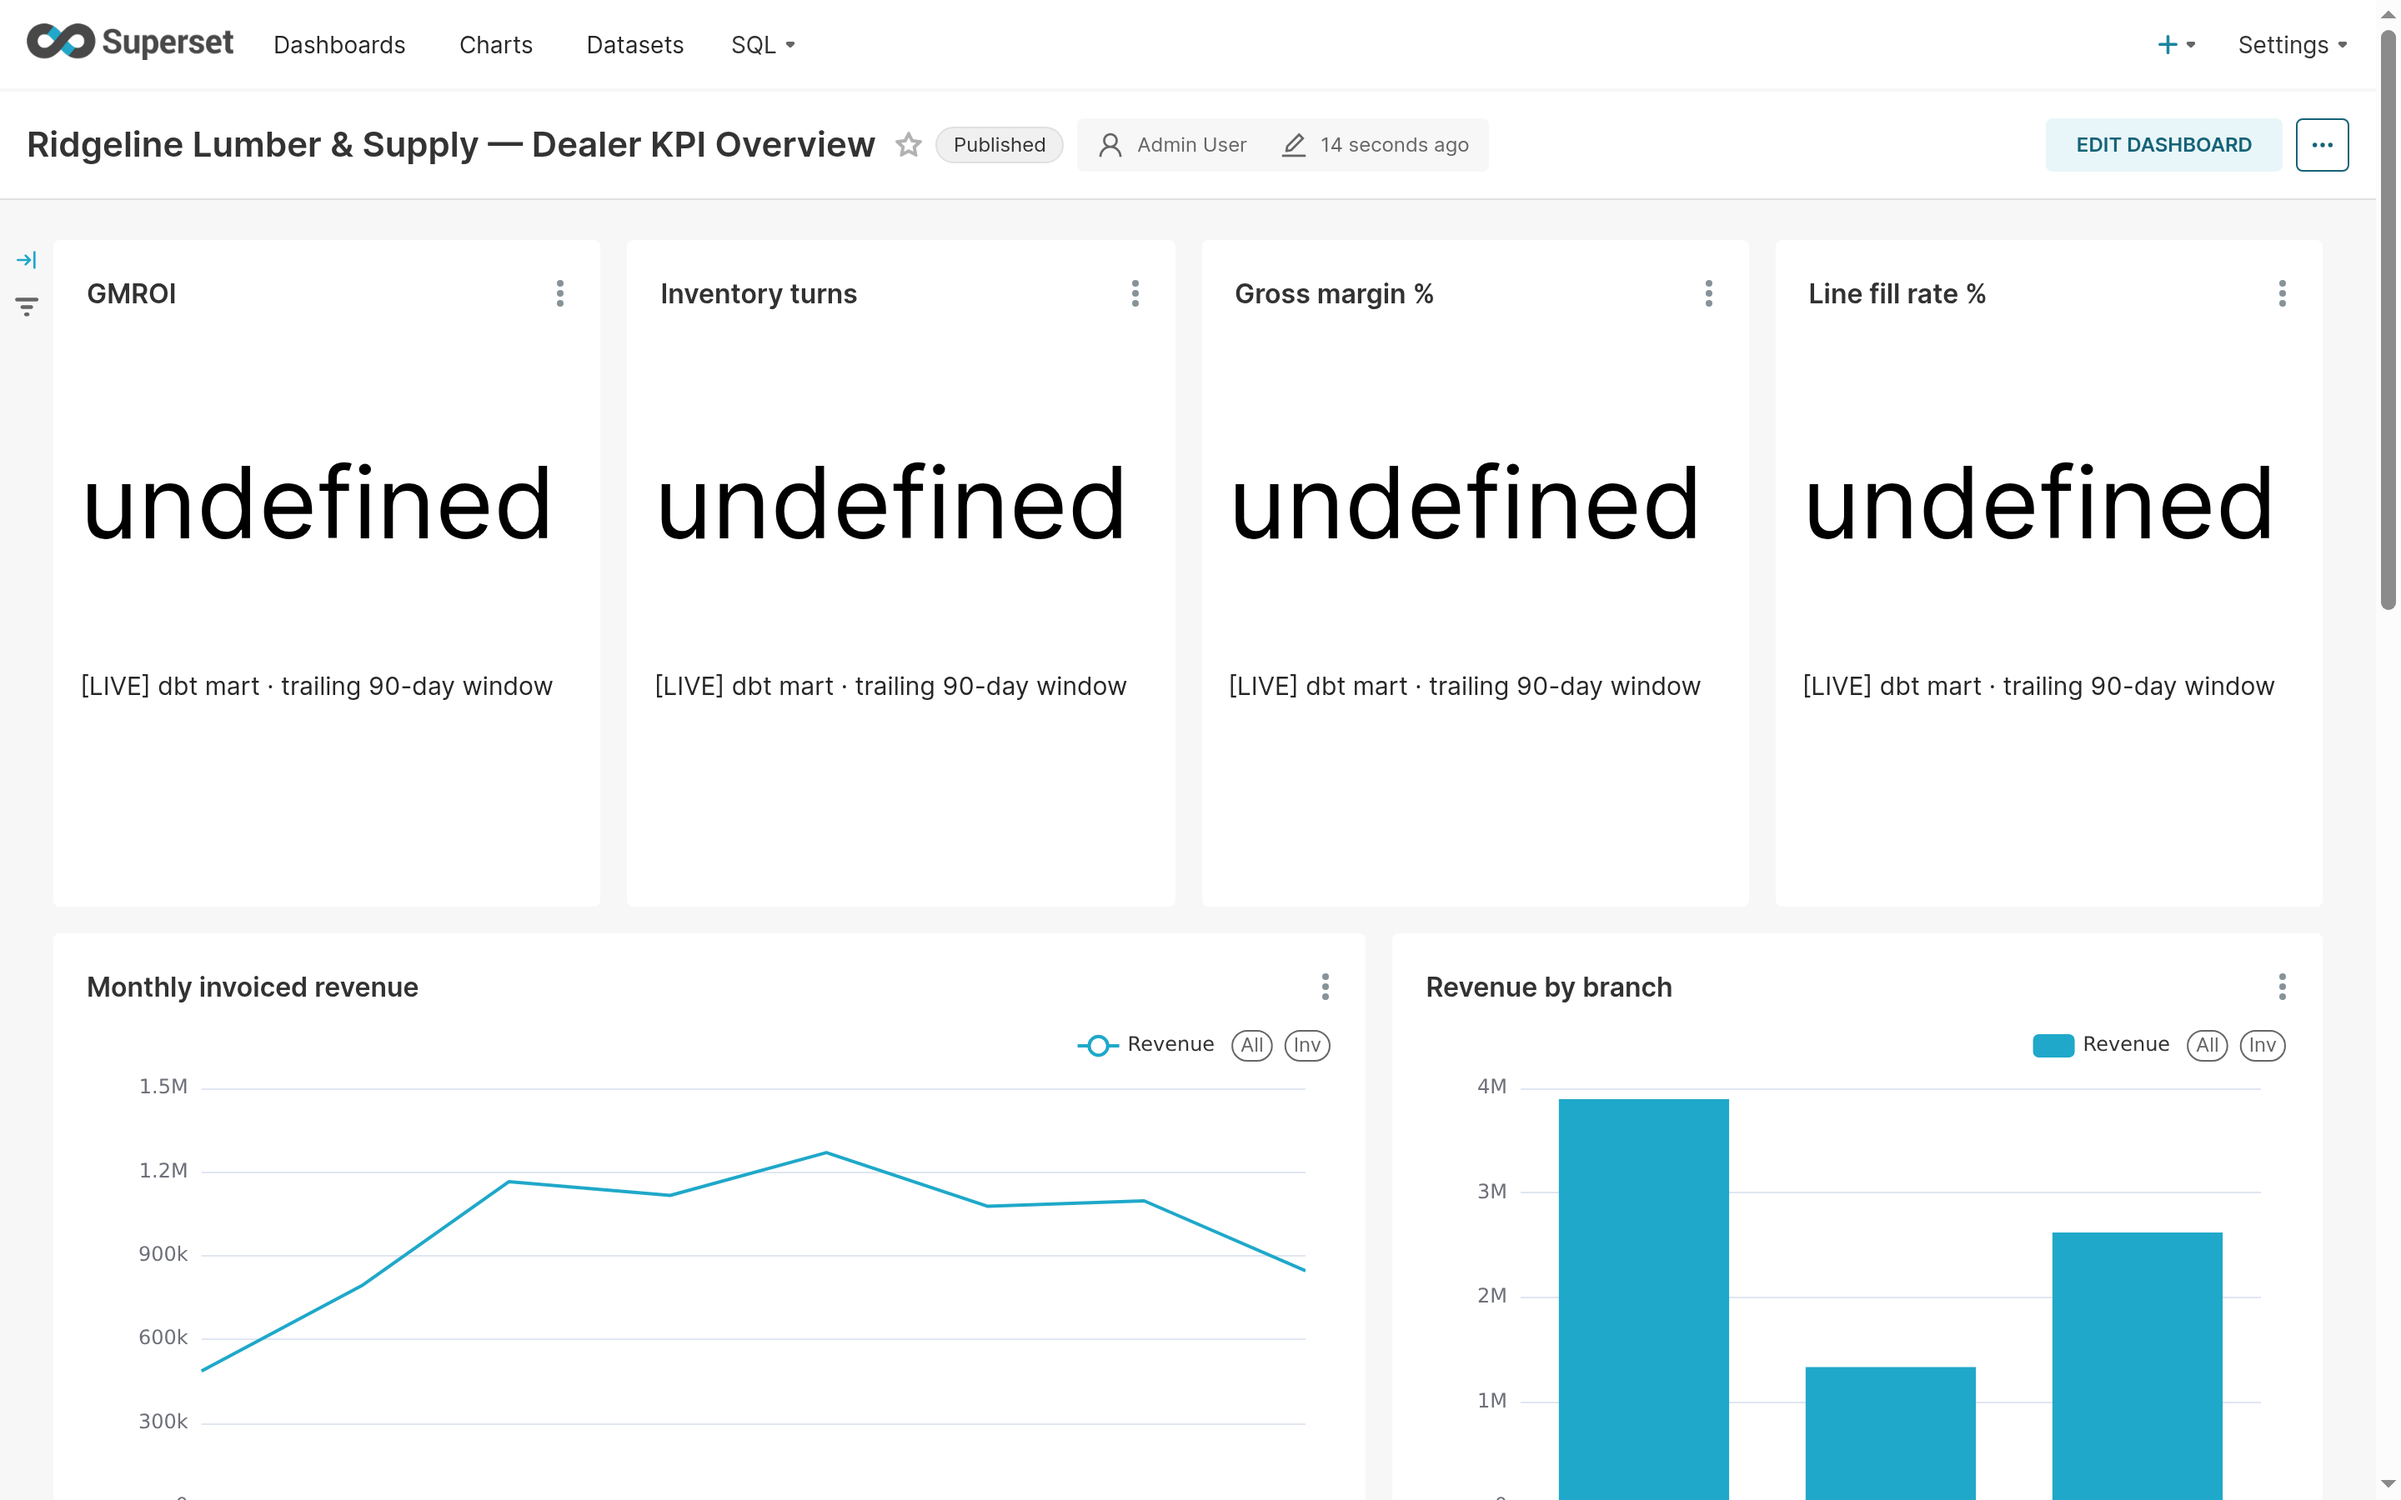
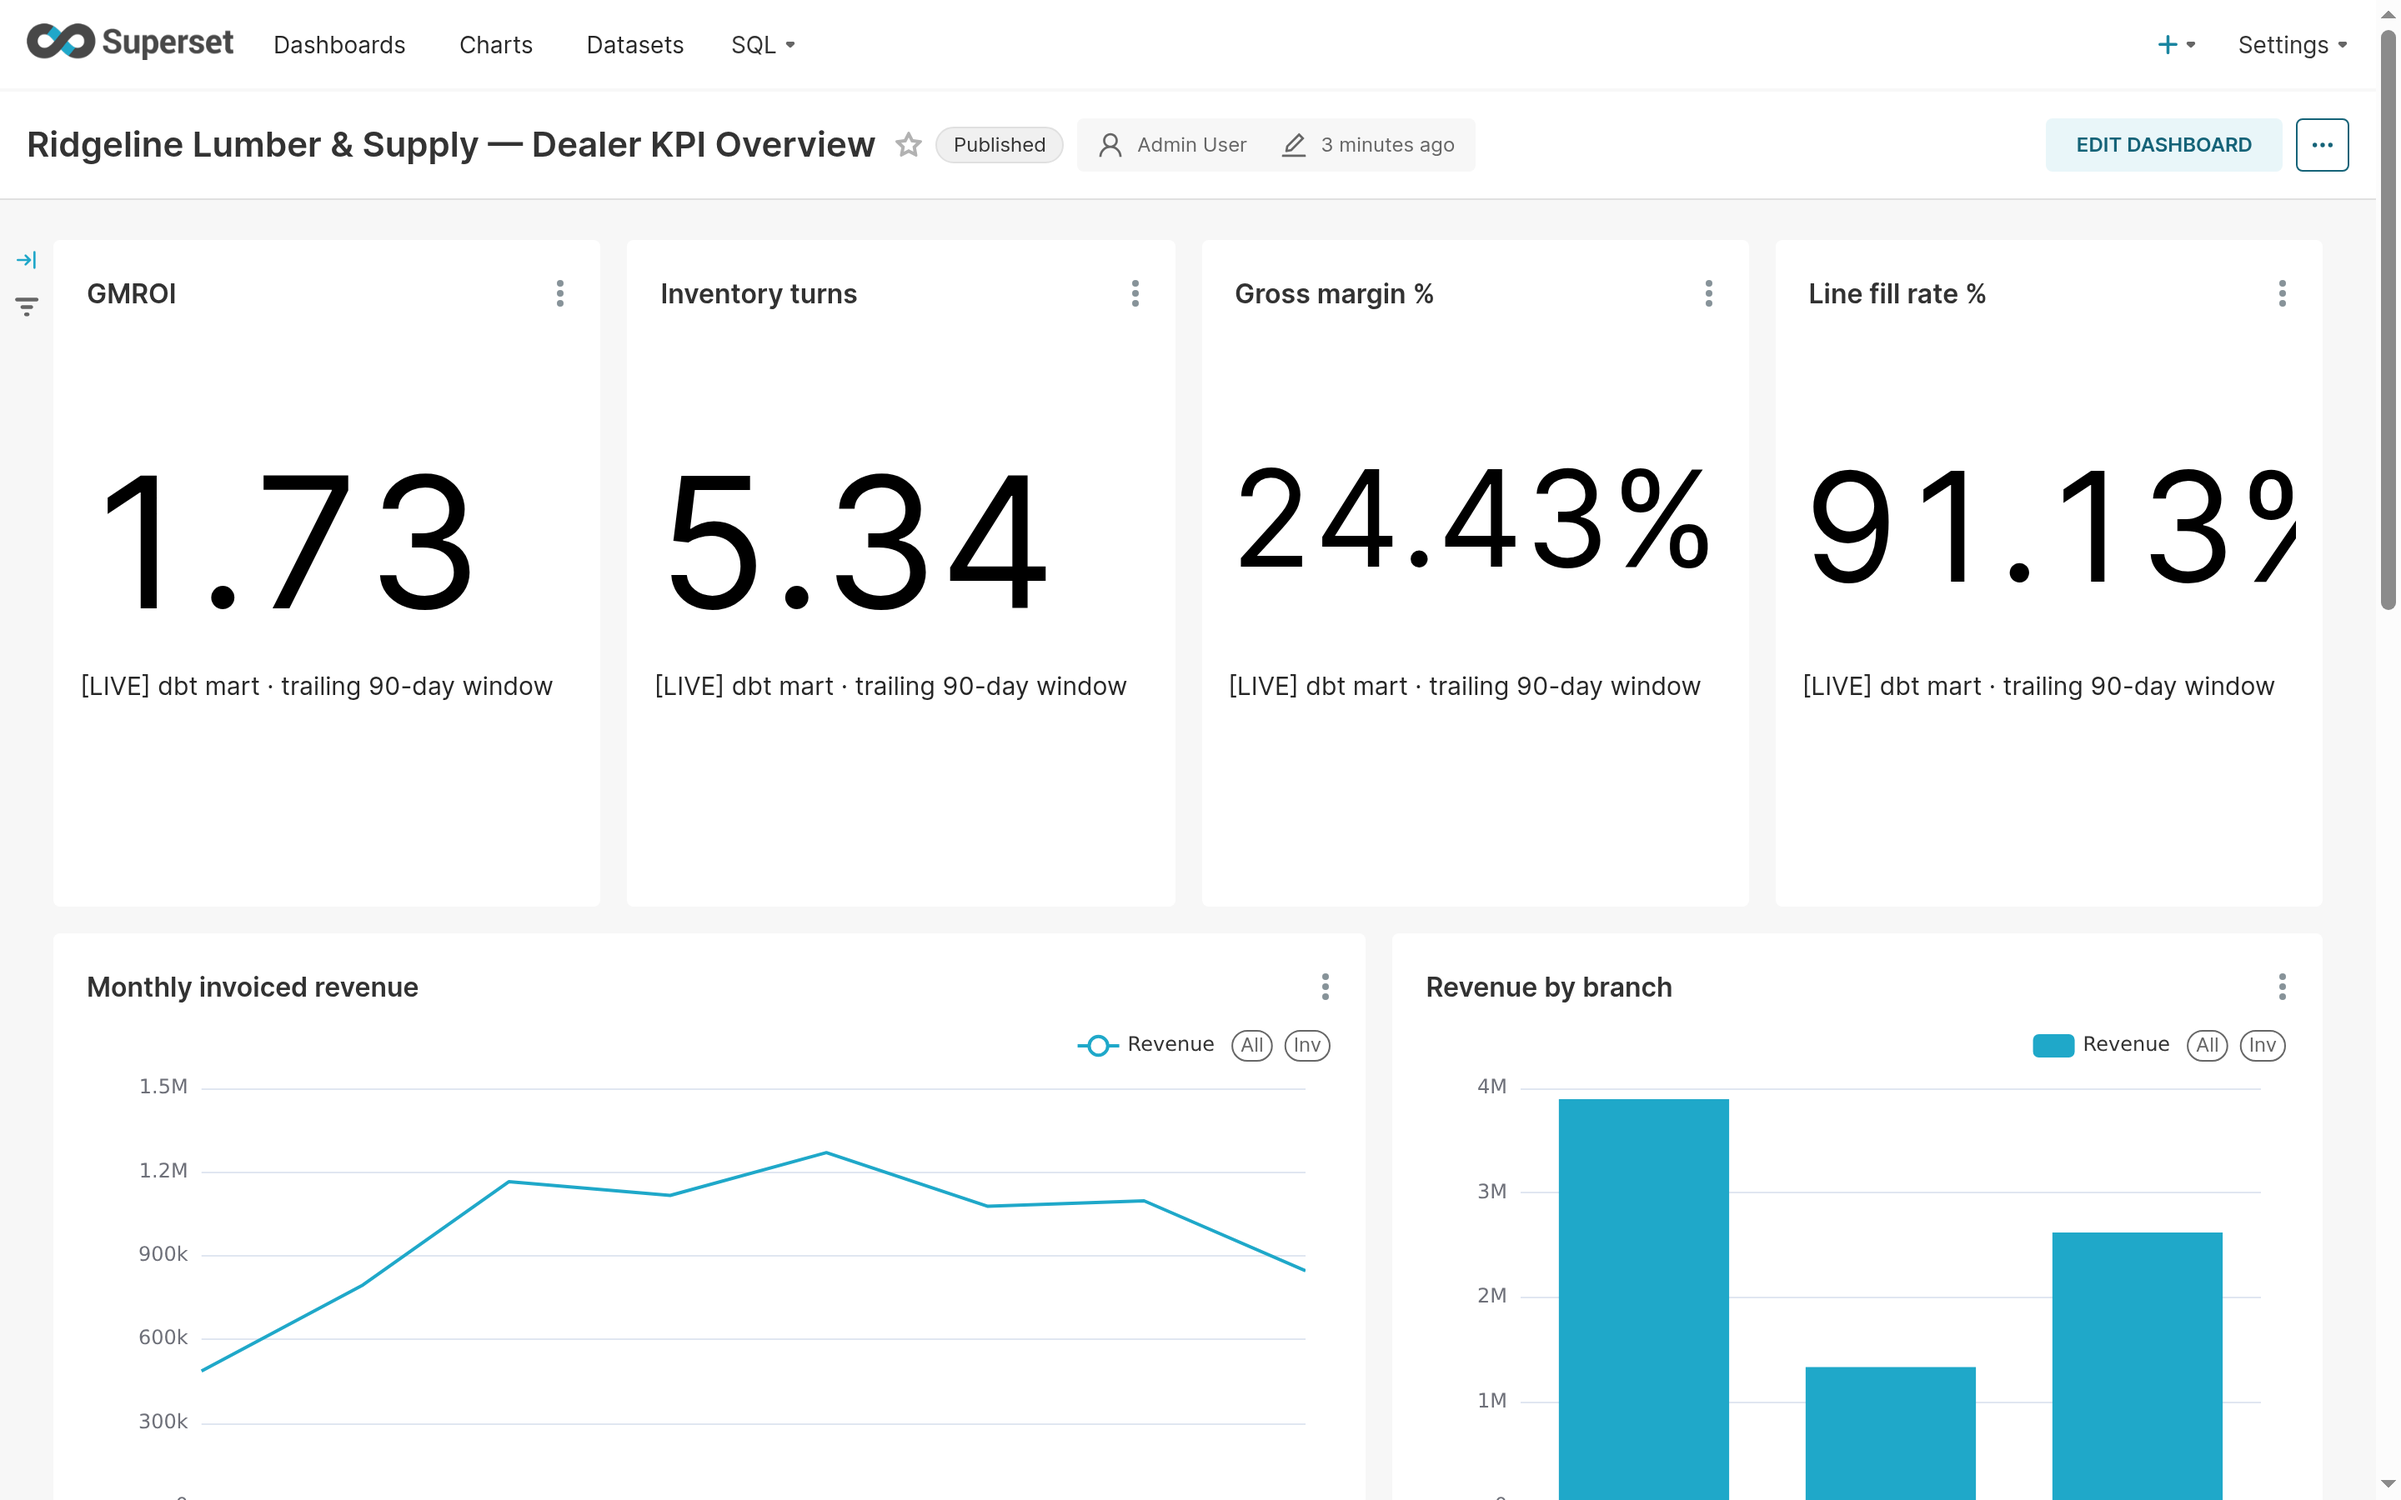
fix(superset): render real values in headline KPI tiles and fail closed on value-less big numbers (#20)
Root cause: the four big_number_total tiles had their metric saved only
under the plural 'metrics' form key. The SPA's query builder reads
'metrics' (so every tile query succeeded with correctly labeled numeric
rows) but the viz renders from the SINGULAR 'metric' key — absent, the
tile displayed the literal string 'undefined'. This affected every
committed dashboard screenshot, pre-dating PR #19.

- tile_params now writes both form keys ('metric' and 'metrics') for the
  same adhoc metric; verified live: GMROI 1.73, turns 5.34, margin 24.43%,
  line fill 91.13%
- percentage tiles switch '.1f' -> '.2%' so fraction-stored mart columns
  (0.2443, 0.9113) display as 24.43% / 91.13%
- new assert_big_number_values preflight fails closed: reads each
  big-number chart's SAVED params from the API, requires the singular
  'metric' key and a finite numeric value under the metric label from
  /api/v1/chart/data, and refuses to provision (before the dashboard is
  rewritten) otherwise
- both screenshots regenerated from the live hardened stack at the same
  filenames and 2880x1800; RapidOCR: 0 'undef|untitl' hits on either
- five new fail-closed guard tests; suite 588 passed, ruff clean

🔗 [Obvious Project](https://app.obvious.ai/p/erp-control-plane-and-data-standardization-for-con-DrFbCr0X) · 🧵 [Obvious Thread](https://app.obvious.ai/p/erp-control-plane-and-data-standardization-for-con-DrFbCr0X?thread=th_pCITLgVQ)

diff --git a/analytics/superset/build_dashboard.py b/analytics/superset/build_dashboard.py
@@ -36,6 +36,7 @@ Environment overrides:
 """
 
 import json
+import math
 import os
 import sqlite3
 import sys
@@ -250,6 +251,15 @@ def tile_params(ds_id, metric, fmt, badge_marker=LIVE_KPI_MARKER):
     return {
         "datasource": f"{ds_id}__table",
         "viz_type": "big_number_total",
+        # big_number_total reads its metric from the SINGULAR form key at
+        # render time, while the SPA's query builder reads the plural one.
+        # A chart saved with only "metrics" runs a perfectly good query
+        # (correctly labeled, numeric rows) yet renders the literal string
+        # 'undefined' — the exact bug that blanked the four headline tiles
+        # in every committed screenshot. Keep both keys pointing at the
+        # same metric; assert_big_number_values refuses to provision a tile
+        # missing either side of this contract.
+        "metric": metric,
         "metrics": [metric],
         "groupby": [],
         "time_range": "No filter",
@@ -306,13 +316,13 @@ CHARTS = [
         "Gross margin %",
         "big_number_total",
         "kpi_headline",
-        tile_params(0, simple("gross_margin_pct", "AVG", "Gross margin %"), ".1f"),
+        tile_params(0, simple("gross_margin_pct", "AVG", "Gross margin %"), ".2%"),
     ),
     (
         "Line fill rate %",
         "big_number_total",
         "kpi_headline",
-        tile_params(0, simple("line_fill_rate", "AVG", "Line fill rate %"), ".1f"),
+        tile_params(0, simple("line_fill_rate", "AVG", "Line fill rate %"), ".2%"),
     ),
     (
         "Monthly invoiced revenue",
@@ -648,6 +658,67 @@ def assert_explicit_names():
         sys.exit(f"refusing to provision unnamed or placeholder-titled objects: {offenders}")
 
 
+def assert_big_number_values(ids, ds_map):
+    """Fail closed when a big-number tile would render a value-less metric.
+
+    The 'undefined' bug shape: the chart's saved params carried the metric
+    under a key the viz does not read at render time, so the query succeeded
+    (status=success, correctly labeled numeric rows) while the tile displayed
+    the literal string 'undefined'. A row-level preflight cannot catch that —
+    this guard checks the contract the viz actually depends on, reading the
+    SAVED chart params from the API (server state, not this file) and
+    requiring (a) the singular `metric` form key big_number_total reads,
+    and (b) a finite numeric value for that metric's label from the
+    chart-data endpoint.
+    """
+    failures = []
+    for name, viz, _ds_key, _params in CHARTS:
+        if viz != "big_number_total":
+            continue
+        cid = ids[name]
+        saved = json.loads(api("GET", f"/api/v1/chart/{cid}")["result"]["params"])
+        metric = saved.get("metric")
+        label = metric.get("label") if isinstance(metric, dict) else None
+        if not isinstance(label, str) or not label.strip():
+            failures.append(
+                f"chart {name!r}: saved params have no singular 'metric' — the viz renders 'undefined'"
+            )
+            continue
+        query = {
+            "metrics": [metric],
+            "groupby": [],
+            "time_range": saved.get("time_range", "No filter"),
+            "filters": [],
+            "row_limit": saved.get("row_limit", 100),
+        }
+        res = api(
+            "POST",
+            "/api/v1/chart/data",
+            json={
+                "datasource": {"id": ds_map[_ds_key], "type": "table"},
+                "queries": [query],
+                "result_format": "json",
+                "result_type": "full",
+            },
+        )
+        result = res["result"][0]
+        rows = result.get("data") or []
+        value = rows[0].get(label) if rows else None
+        numeric = (
+            isinstance(value, (int, float)) and not isinstance(value, bool) and math.isfinite(value)
+        )
+        if result.get("status") != "success" or not rows or not numeric:
+            failures.append(
+                f"chart {name!r}: metric {label!r} has no finite numeric value"
+                f" (status={result.get('status')!r}, value={value!r})"
+            )
+    if failures:
+        sys.exit(
+            "refusing to provision value-less big-number tiles (would render 'undefined')"
+            f": {'; '.join(failures)}"
+        )
+
+
 def main():
     global HEADERS, DB_ID
     assert_explicit_names()
@@ -660,6 +731,9 @@ def main():
         ds_map[name] = ensure_dataset(name, sql=sql)
     probe_mart(ds_map)  # honest badges: LIVE is earned before any tile exists
     ids = ensure_charts(ds_map)
+    # Refuse before the dashboard is (re)written: a value-less tile must
+    # never reach a committed screenshot.
+    assert_big_number_values(ids, ds_map)
     dash_id = ensure_dashboard(ids)
     verify_charts(ids, ds_map)
     print(

diff --git a/tests/test_honest_badges.py b/tests/test_honest_badges.py
@@ -8,6 +8,7 @@ dashboard header legend, and the Superset runbook's probe-then-badge rule.
 from __future__ import annotations
 
 import importlib.util
+import json
 from pathlib import Path
 from typing import Any
 
@@ -223,6 +224,86 @@ def test_runbook_tiles_are_badged_live_in_the_subheader() -> None:
     assert params["subheader"].startswith(f"{LIVE_KPI_MARKER} dbt mart")
     assert runbook.LIVE_KPI_MARKER == LIVE_KPI_MARKER  # one source of badge truth
     assert runbook.MOCK_KPI_MARKER == MOCK_KPI_MARKER
+
+
+def test_big_number_tiles_carry_both_metric_form_keys() -> None:
+    """big_number_total renders from the singular 'metric' form key while the
+    SPA's query builder reads the plural 'metrics' — a chart saved with only
+    one of them queries fine but displays the literal string 'undefined'."""
+    runbook = _load_runbook()
+    metric = runbook.simple("gmroi", "AVG", "GMROI")
+    params = runbook.tile_params(7, metric, ".2f")
+    assert params["metric"] == metric
+    assert params["metrics"] == [metric]
+
+
+def _stub_guard_api(
+    monkeypatch: pytest.MonkeyPatch, runbook: Any, saved_params: dict, data: Any
+) -> None:
+    def fake_api(method: str, path: str, **_kw: Any) -> Any:
+        if method == "GET":
+            return {"result": {"params": json.dumps(saved_params)}}
+        return data
+
+    monkeypatch.setattr(runbook, "api", fake_api)
+
+
+def _guard(monkeypatch: pytest.MonkeyPatch, runbook: Any, saved_params: dict, data: Any) -> None:
+    _stub_guard_api(monkeypatch, runbook, saved_params, data)
+    ids = {
+        name: i + 1
+        for i, (name, viz, *_r) in enumerate(runbook.CHARTS)
+        if viz == "big_number_total"
+    }
+    ds_map = {name: i + 100 for i, name in enumerate(runbook.VIRTUAL_DATASETS)}
+    ds_map.update({k: 200 + i for i, k in enumerate(runbook.PHYSICAL_DATASETS)})
+    runbook.assert_big_number_values(ids, ds_map)
+
+
+def test_value_guard_fails_closed_without_the_singular_metric_key(
+    monkeypatch: pytest.MonkeyPatch,
+) -> None:
+    """The committed bug shape: metric saved only under plural 'metrics'."""
+    runbook = _load_runbook()
+    metric = runbook.simple("gmroi", "AVG", "GMROI")
+    saved = {"metric_missing": True, "metrics": [metric], "time_range": "No filter"}
+    data = {"result": [{"status": "success", "data": [{"GMROI": 1.73}]}]}
+    with pytest.raises(SystemExit, match="value-less big-number tiles"):
+        _guard(monkeypatch, runbook, saved, data)
+
+
+def test_value_guard_fails_closed_on_non_numeric_metric_value(
+    monkeypatch: pytest.MonkeyPatch,
+) -> None:
+    runbook = _load_runbook()
+    metric = runbook.simple("gmroi", "AVG", "GMROI")
+    saved = {"metric": metric, "metrics": [metric], "time_range": "No filter"}
+    for data in (
+        {"result": [{"status": "success", "data": [{"GMROI": None}]}]},
+        {"result": [{"status": "success", "data": [{"GMROI": "oops"}]}]},
+        {"result": [{"status": "failed", "data": []}]},
+        {"result": [{"status": "success", "data": []}]},
+    ):
+        with pytest.raises(SystemExit, match="no finite numeric value"):
+            _guard(monkeypatch, runbook, saved, data)
+
+
+def test_value_guard_passes_a_finite_numeric_metric(monkeypatch: pytest.MonkeyPatch) -> None:
+    runbook = _load_runbook()
+    metric = runbook.simple("gmroi", "AVG", "GMROI")
+    saved = {"metric": metric, "metrics": [metric], "time_range": "No filter"}
+    data = {"result": [{"status": "success", "data": [{"GMROI": 1.73}]}]}
+    _guard(monkeypatch, runbook, saved, data)  # must not exit
+
+
+def test_value_guard_treats_nan_and_bool_as_valueless(monkeypatch: pytest.MonkeyPatch) -> None:
+    runbook = _load_runbook()
+    metric = runbook.simple("gmroi", "AVG", "GMROI")
+    saved = {"metric": metric, "metrics": [metric], "time_range": "No filter"}
+    for value in (float("nan"), float("inf"), True):
+        data = {"result": [{"status": "success", "data": [{"GMROI": value}]}]}
+        with pytest.raises(SystemExit, match="no finite numeric value"):
+            _guard(monkeypatch, runbook, saved, data)
 
 
 def test_dashboard_header_declares_the_badge_legend() -> None:
